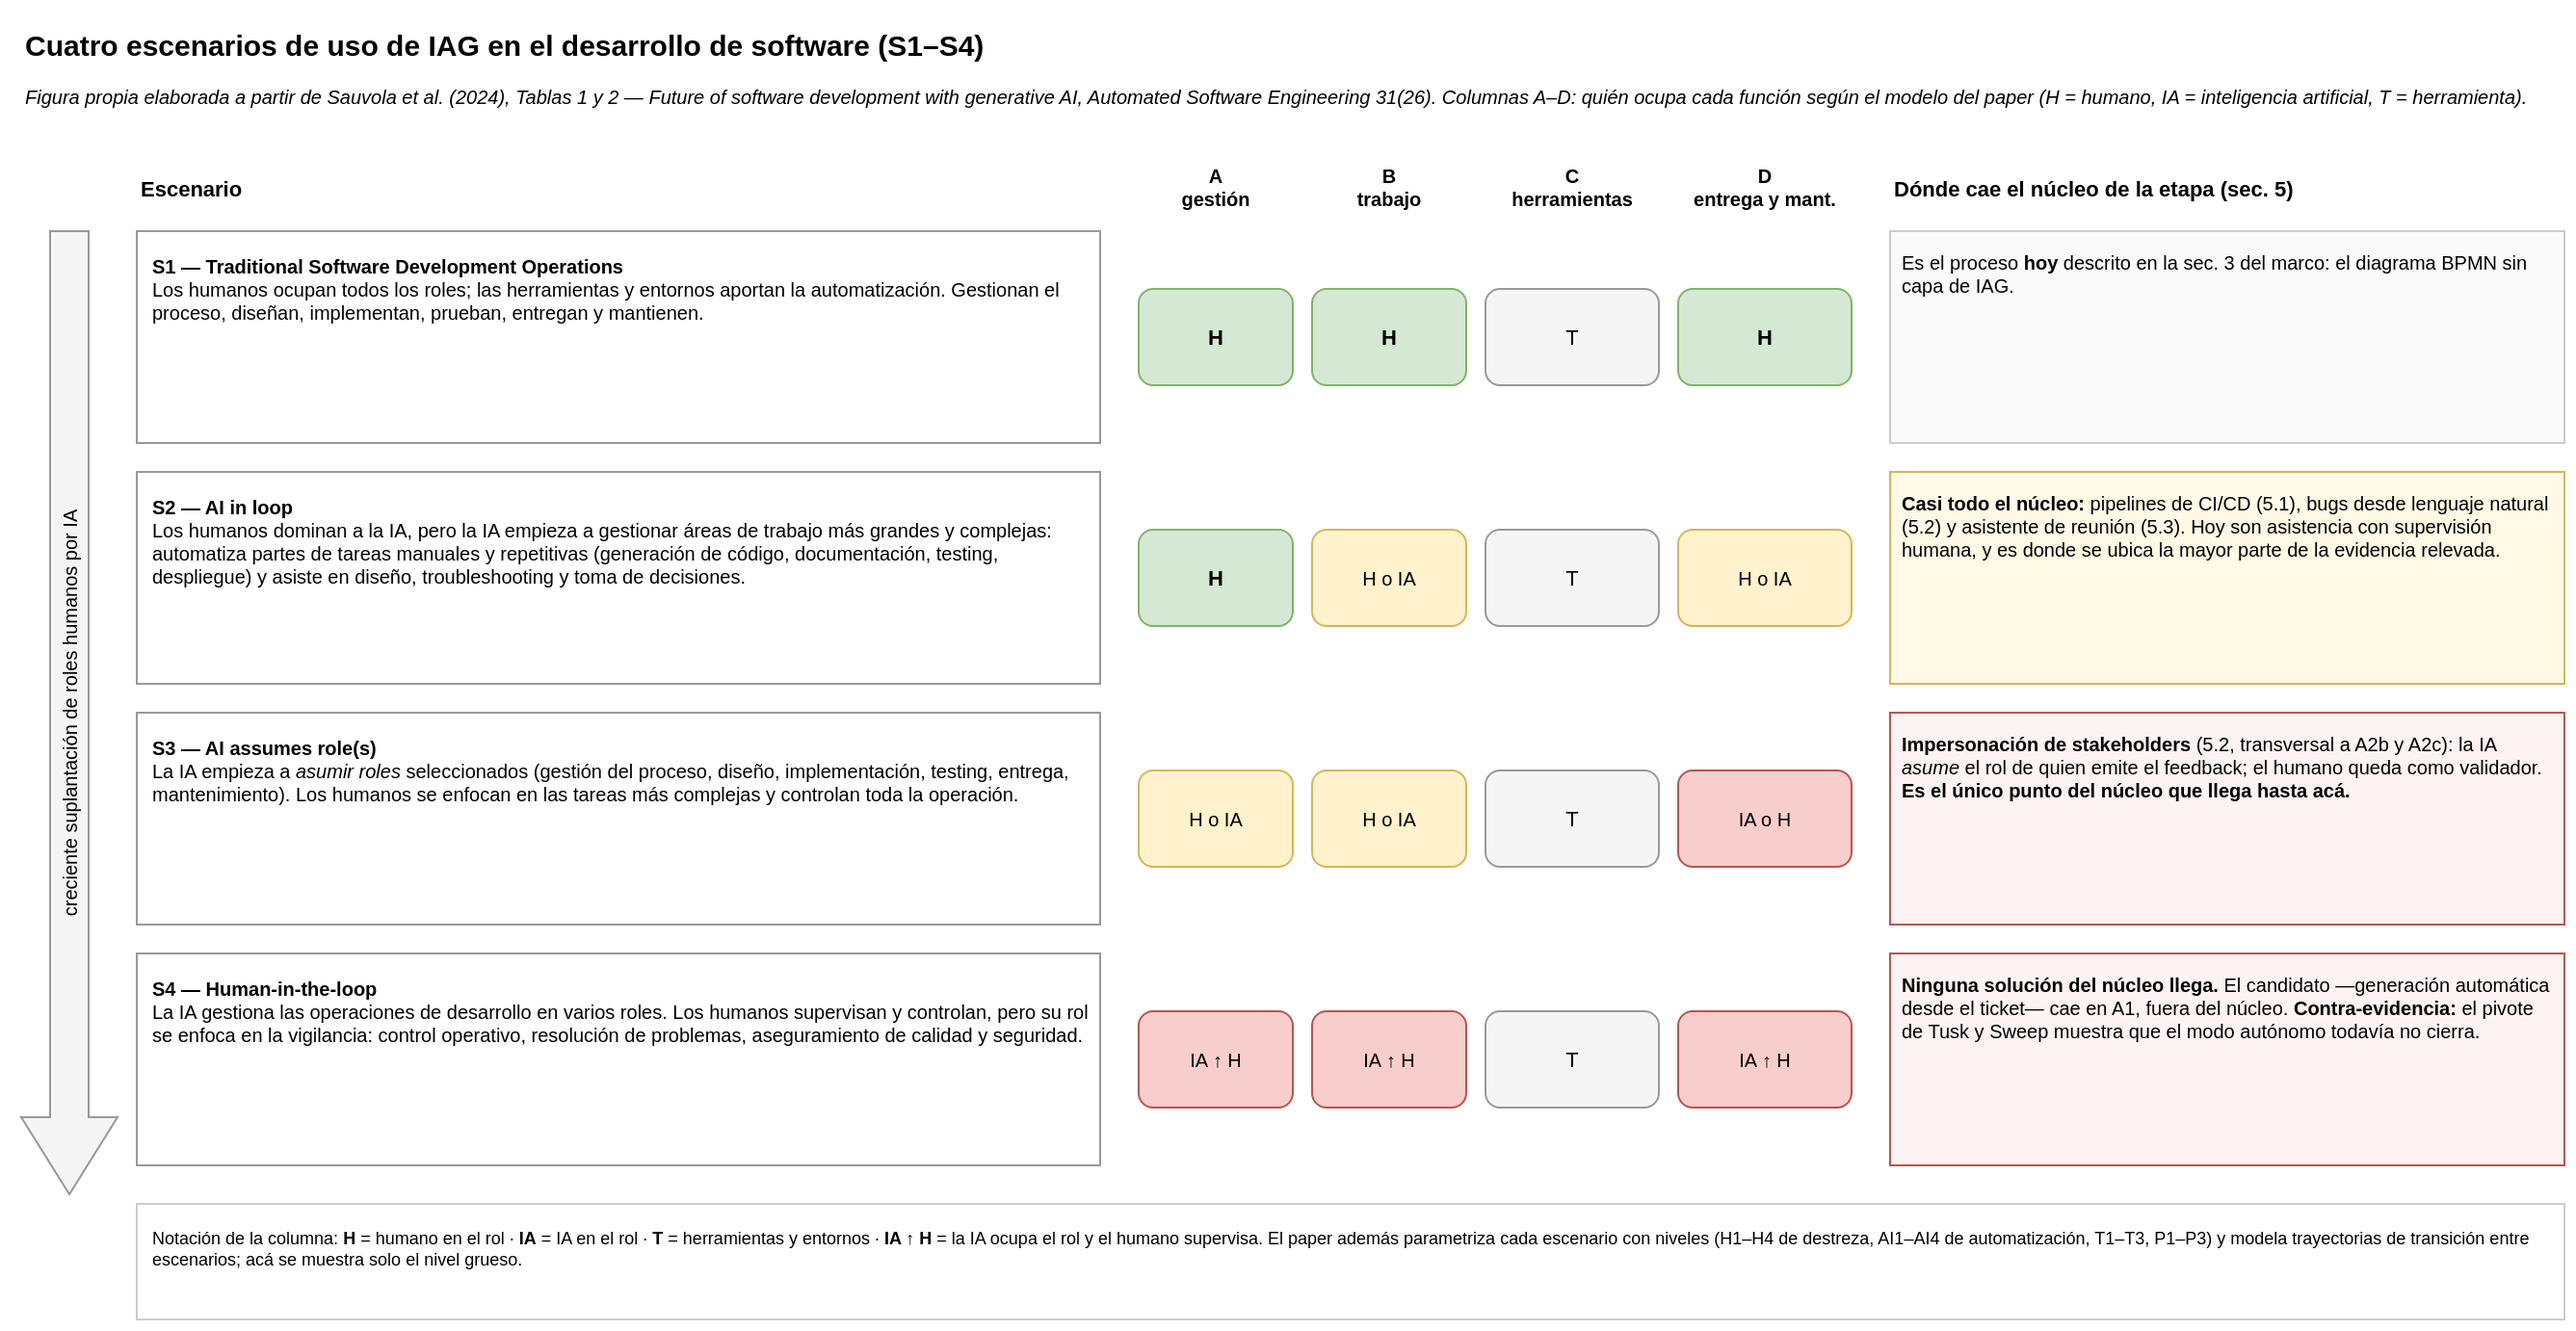
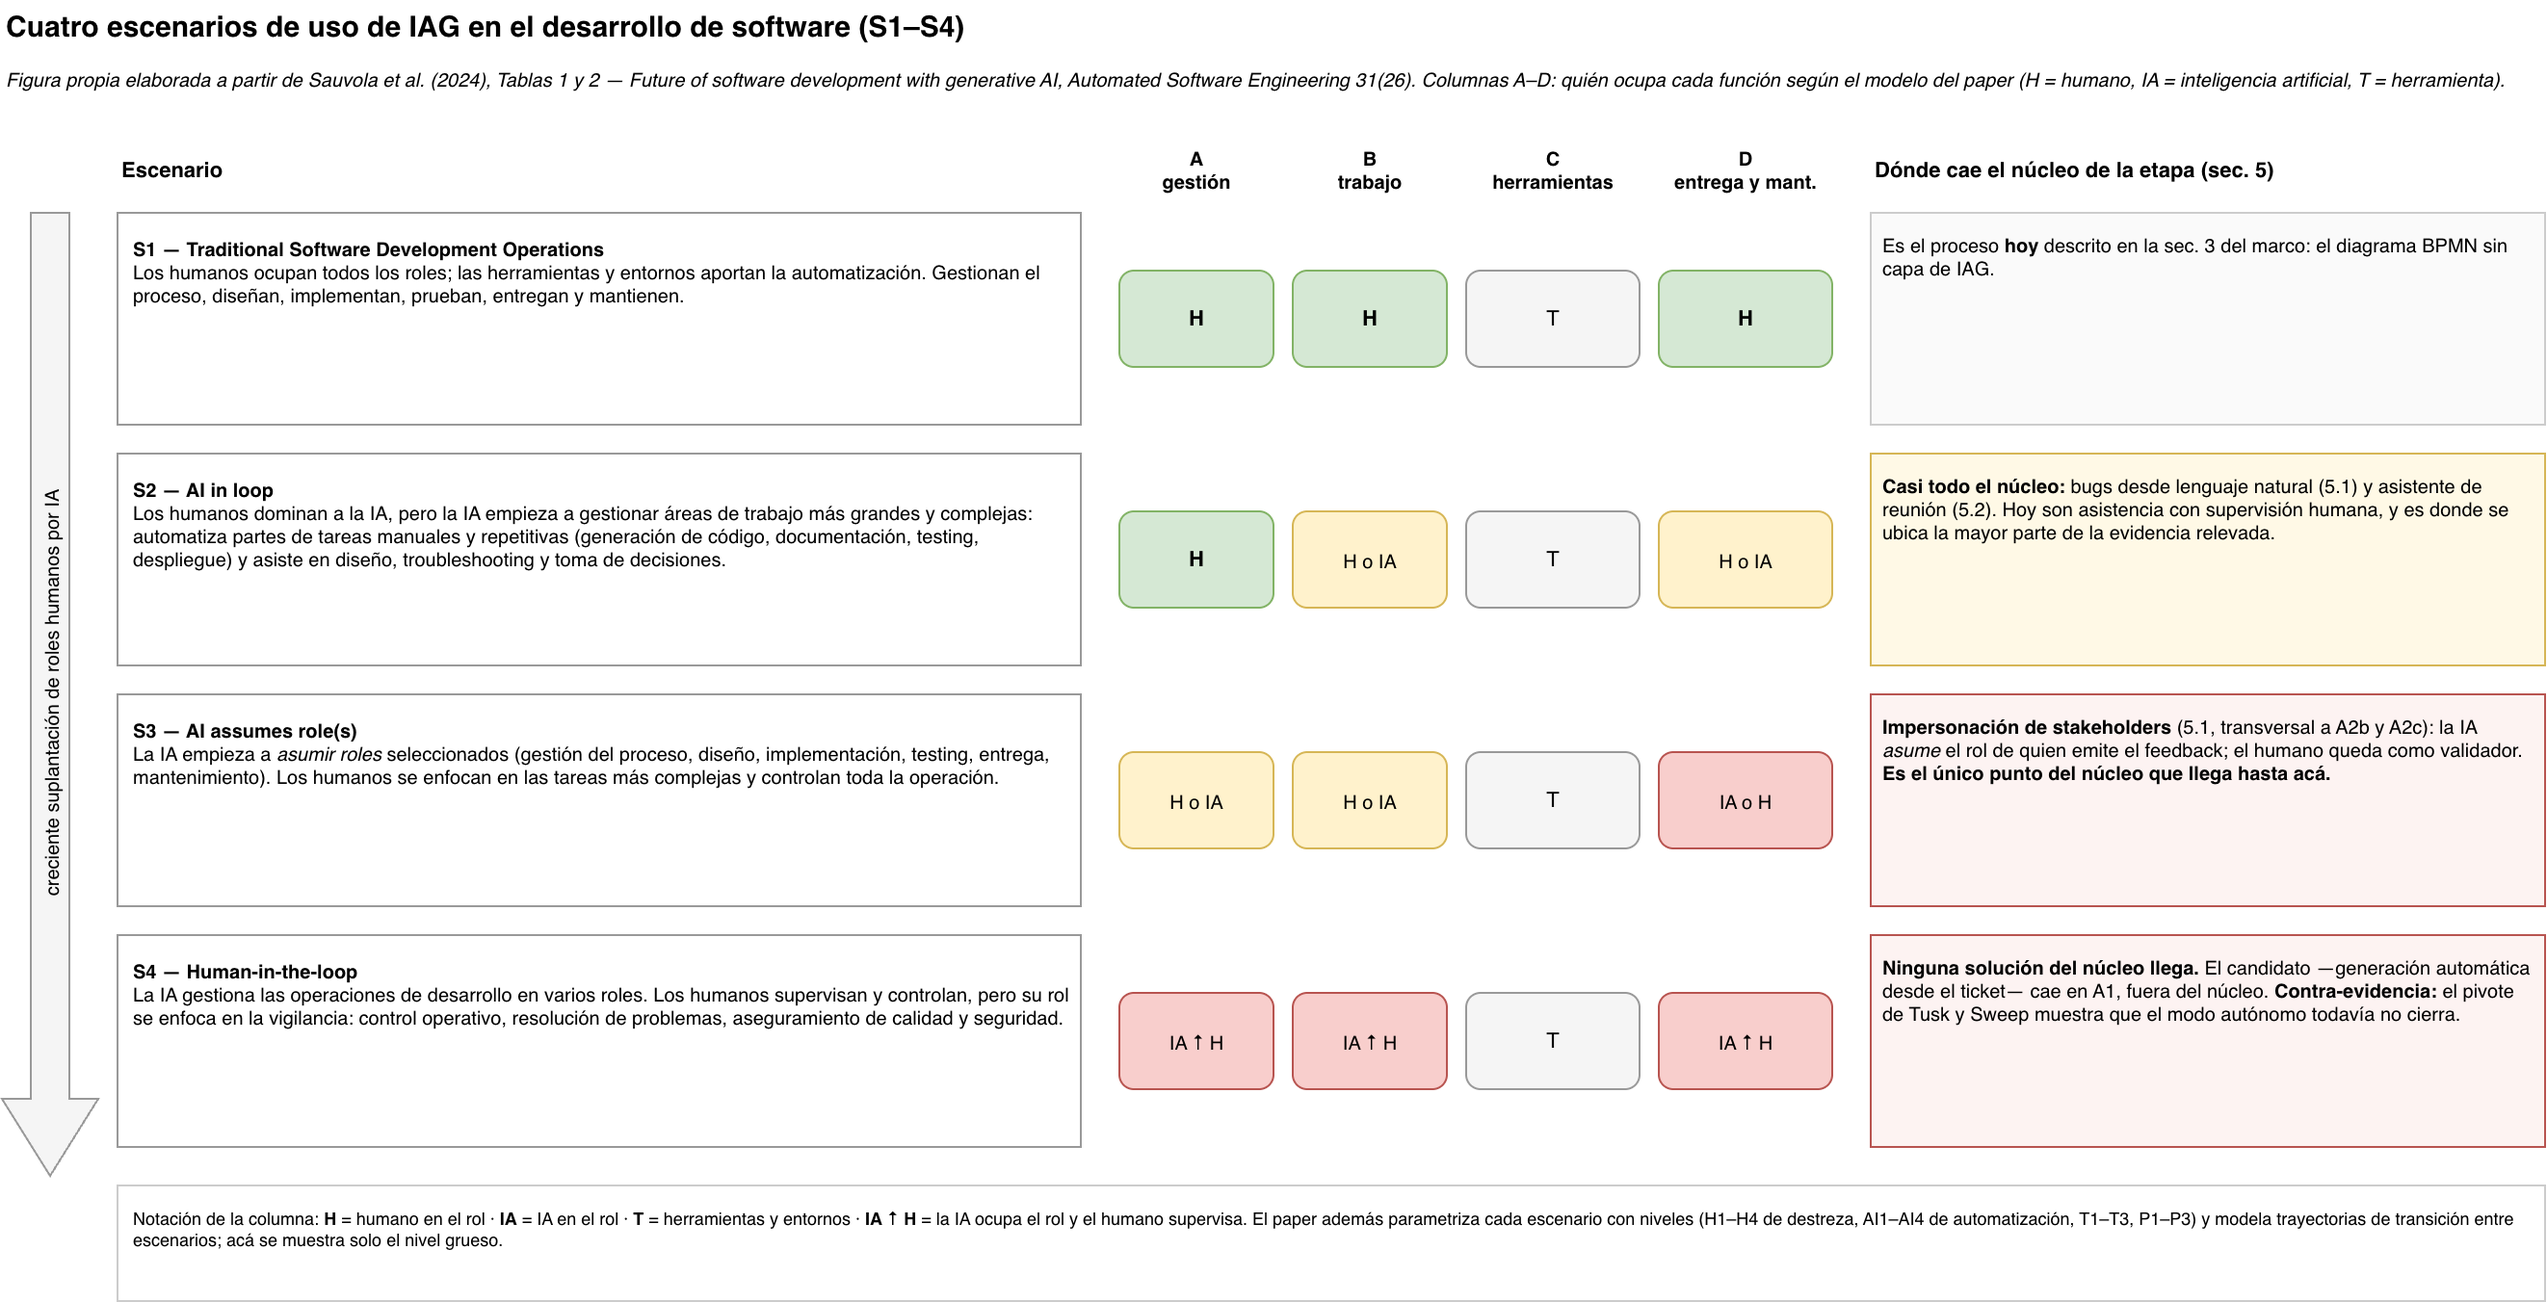
sprint 15: re-exportar los png desde los drawio y quitar el changelog al pie del marco

diff --git a/sprint 15/MARCO_PROCESO_FEEDBACK_v2.md b/sprint 15/MARCO_PROCESO_FEEDBACK_v2.md
@@ -332,19 +332,5 @@ impersonación del stakeholder.
 
 ---
 
-*Última actualización: 2026-07-27 — sprint 15. Las viejas secciones 5 (capa con IAG, por actividad) y 6 (grandes
-áreas con IAG) se **fusionaron en una sola**: hablaban de lo mismo desde dos cortes distintos y se solapaban. Queda
-la sección 5, organizada por actividad del núcleo (A2b–A2c), con la evidencia, el cambio de rol y el límite dentro
-de cada una; las soluciones que cruzan más de una actividad —la impersonación de stakeholders, que toca A2b y A2c—
-se marcan como tales en lugar de tratarse aparte. El resto del proceso (A1, A3a–A5) **salió del marco**: su
-relevamiento vive en `sprint 12/REFERENCIAS.md` y acá solo queda el argumento de que ahí la literatura ya cubre
-(5.3). Los escenarios S1–S4 pasan a ser la sección 6, porque no son soluciones sino una escala para graduar cuánto
-desplaza la IA al humano; leído contra ella, el núcleo se concentra en S2 y solo la impersonación llega a S3. Se explicitó en cada ítem quién afirma qué —hallazgo empírico vs. pregunta abierta de la
-agenda de Nguyen-Duc et al. vs. expectativa declarada por los autores— y se corrigió el sentido de la cita de
-Nguyen-Duc sec. 4.1.4: la IAG **genera** inconsistencias, no las detecta.*
-
-*Además, **A2a (liberación del incremento) pasó del núcleo a la franja de contexto**, junto a A1: la ejecutan solo
-los Developers, ahí no cambia ninguna dinámica stakeholder–equipo y su gap declarado —automatización de
-build/deployment, RQ 6 de Nguyen-Duc et al.— no es objeto de esta tesis; queda registrado en 5.3 por trazabilidad.
-Del proceso importa su cadencia (sección 1), que condiciona la frecuencia posible del feedback. El núcleo queda en
-**A2b + A2c**: exactamente donde se genera el feedback.*
+*Última actualización: 2026-07-27 — sprint 15. El registro de cambios respecto de la v1 está en
+`CAMBIOS_DESDE_V1.md`.*
